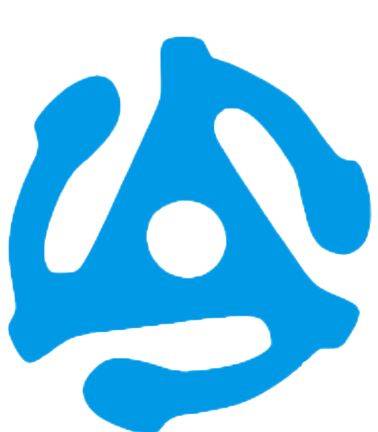
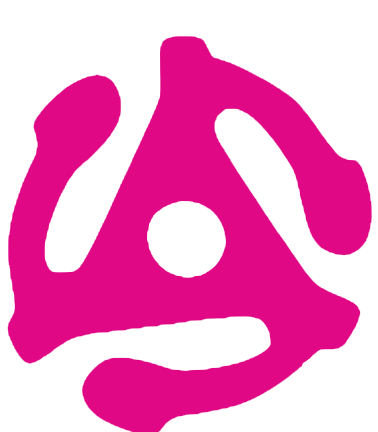
updating color

diff --git a/src/components/nav/index.css b/src/components/nav/index.css
@@ -6,6 +6,7 @@
     box-shadow: 5px 5px 5px #dad9d988;
     font-family: var(--en-font);
     margin-block-end: 55px;
+    background-color: var(--secondry-BG);
 }
 
 .nav-main-ar {
@@ -16,6 +17,8 @@
     box-shadow: 5px 5px 5px #dad9d988;
     font-family: var(--ar-font);
     margin-block-end: 55px;
+    background-color: var(--secondry-BG);
+
 }
 
 
@@ -32,19 +35,20 @@
 
 .logo-container .logo-text {
     background: none;
-    color: var(--main-text);
+    color: var(--main-BG);
     font-size: xx-large;
     font-family: var(--en-font);
 }
 
 .logo-container .logo-text span {
     background: none;
-    color: var(--secondry-BG);
+    color: var(--secondry-color);
 }
 
 .logo-container img {
     width: 45px;
     height: 45px;
+    cursor: default;
 
 }
 
@@ -75,7 +79,7 @@
 
 
 .list-container .headers-list a:hover {
-    color: var(--secondry-BG);
+    color: var(--secondry-color);
 
 }
 
@@ -84,7 +88,7 @@
     cursor: pointer;
     font-size: medium;
     text-decoration: none;
-    color: var(--main-text);
+    color: var(--main-BG);
 
 }
 
@@ -110,7 +114,7 @@
     margin-inline-end: 15px;
     cursor: pointer;
     display: none;
-    color: var(--secondry-BG);
+    color: var(--main-BG);
 }
 
 .nav-menu {

diff --git a/src/index.css b/src/index.css
@@ -17,7 +17,8 @@
 
 :root {
   --main-BG: #F0F0F0;
-  --secondry-BG: #0099E5;
+  --secondry-BG: #403092;
+  --secondry-color: #e00885;
   --main-text: #100F0F;
   --en-font: 'nexa';
   --ar-font: 'ar-font';
@@ -26,8 +27,8 @@
 
 .main-btn,.main-btn-ar{
   background: none;
-  background-color: var(--secondry-BG);
-  border:2px solid var(--secondry-BG);
+  background-color: var(--secondry-color);
+  border:2px solid var(--secondry-color);
   color: var(--main-BG);
   border-radius: 3px;
   cursor: pointer;
@@ -41,8 +42,8 @@
 
 
 .main-btn:hover,.main-btn-ar:hover{
+  color: var(--secondry-color);
   background-color: var(--main-BG);
-  color: var(--secondry-BG);
 }
 
 

diff --git a/src/components/contact-us/index.css b/src/components/contact-us/index.css
@@ -71,7 +71,7 @@
 }
 
 .form-container .form-element .form-label {
-    color: var(--secondry-BG);
+    color: var(--secondry-color);
     margin-inline-end: 15px;
     font-size: x-large;
     min-width: 150px;
@@ -84,7 +84,7 @@
 .form-container .form-element .form-input {
     width: 350px;
     height: 35px;
-    border: 1px solid var(--secondry-BG);
+    border: 1px solid var(--secondry-color);
     border-radius: 7px;
     margin-inline-start: 15px;
     outline: none;

diff --git a/src/components/card/index.css b/src/components/card/index.css
@@ -1,7 +1,7 @@
 .card-container{
    width: 25%;
    height: 200px;
-    background-color: var(--secondry-BG);
+    background-color: #e00885;
     border-radius: 15px;
     margin-inline: 30px;
     margin-block-end: 45px;
@@ -9,7 +9,6 @@
 
 }
 .card-container .icon{
-    background-color: var(--secondry-BG);
     width: 70px;
     height: 70px;
     cursor: default;

diff --git a/src/components/services/index.css b/src/components/services/index.css
@@ -13,10 +13,10 @@
 }
 
 .services-header{
-    color: var(--secondry-BG);
+    color: var(--secondry-color);
     font-size: x-large;
     margin-block-end: 35px;
-    border: 3px solid var(--secondry-BG);
+    border: 3px solid var(--secondry-color);
     padding: 10px;
     border-radius: 30px;
     width: 20%;

diff --git a/src/components/home/index.css b/src/components/home/index.css
@@ -33,7 +33,7 @@
 .description-container .description,.description-container .description-ar{
     background: transparent;
     font-size: x-large;
-    color: var(--secondry-BG);
+    color: var(--secondry-color);
     line-height: 2.1;
     font-family: var(--ar-font);
     margin-block-end: 15px;
